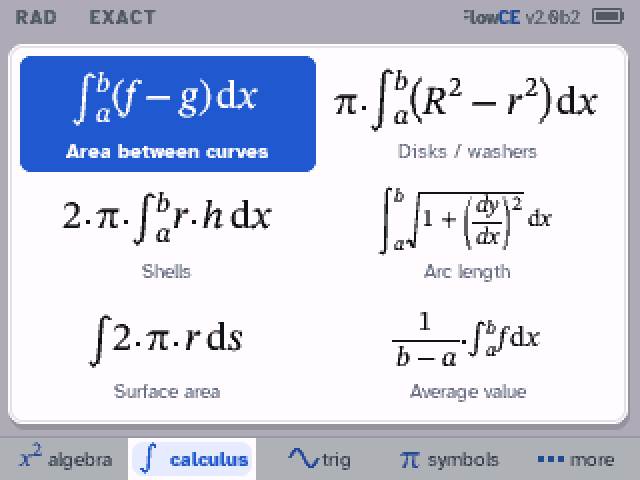
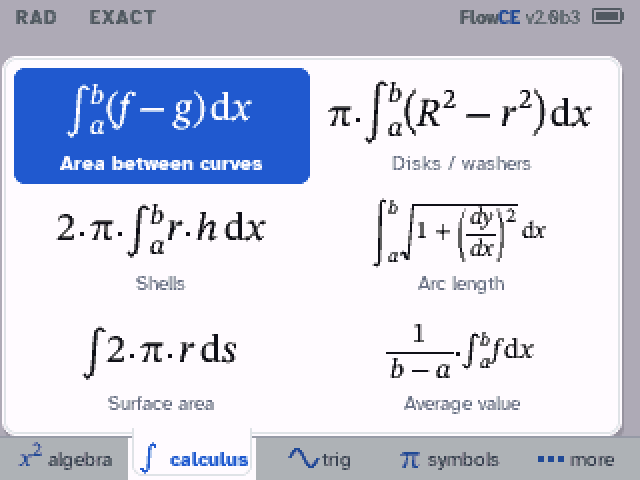
README: Steps 2.0 beta 3 (DeltaCE's algebra steps, graph screen, statistics, probability), credits
The two versions' table (beta 3: steps for algebra too, the graph screen, statistics and
probability; programs stay in 1.9), "New in beta 3" with nine screenshots of the emulated
calculator (FlowCE's look, 2.0b3), the applications under "Since beta 2" (the 0 key), the new keys
(the row of next steps, F4 on the steps page and on an antiderivative, the graph screen's keys,
statistics, probability, practice), and the credits: FlowCE by Tommy Bell; DeltaCE, Gabriel's
fork, for the algebra steps, the graph screen, analyze, statistics, probability and practice.
The beta 3 download link points to the release v2.0-beta3 (not made yet).

Changed region(s): [[0.0, 0.0938, 1.0, 0.9375], [0.875, 0.0312, 0.9062, 0.0625], [0.7188, 0.0312, 0.75, 0.0625]]

diff --git a/README.md b/README.md
@@ -29,11 +29,13 @@ pick a version, click Install, and follow the short calculator prompts.
 
 | | **FlowCE** | **FlowCE Steps** (beta) |
 |---|---|---|
-| Version | 1.9, stable | 2.0 beta 2 |
-| Step-by-step solutions | | derivatives, integrals, limits, sums, Taylor series |
+| Version | 1.9, stable | 2.0 beta 3 |
+| Step-by-step solutions | | calculus (derivatives, integrals, limits, sums, Taylor series) and algebra (equations, factoring, systems, inequalities) |
+| Graphs | classic graph, trace, table | a new graph screen: exact key points, pan and zoom, circles, polar, slope fields |
 | Applications menu | | area, volumes, arc length, surface area, average value |
-| Programs in Python syntax | yes | no |
-| Download | [`FlowCE.b84`](https://github.com/tommyb3ll/FlowCE/releases/latest/download/FlowCE.b84) | [`FlowCE-steps.b84`](https://github.com/tommyb3ll/FlowCE/releases/download/v2.0-beta2/FlowCE-steps.b84) |
+| Statistics and probability | | data, regressions, distributions, tests |
+| Programs (Python syntax, editor) | yes | no |
+| Download | [`FlowCE.b84`](https://github.com/tommyb3ll/FlowCE/releases/latest/download/FlowCE.b84) | [`FlowCE-steps.b84`](https://github.com/tommyb3ll/FlowCE/releases/download/v2.0-beta3/FlowCE-steps.b84) |
 
 Both have the shared features below. Install one version at a time.
 
@@ -45,10 +47,25 @@ does and the rule it uses (integration by parts, the chain rule, L'Hôpital's ru
 fractions, the ratio test...); a part worked out on the side, like the integral left after
 integrating by parts, gets its own steps. `▲` and `▼` move from step to step.
 
-**New in beta 2:** open **Calculus → Applications** for area between curves, volumes by
-washers or shells, arc length, surface area and average value, with labeled input boxes and
-worked steps. Beta 2 also improves large-power integrals, absolute-value problems and geometric
-series. [Release notes](https://github.com/tommyb3ll/FlowCE/releases/tag/v2.0-beta2).
+**New in beta 3:** steps for algebra (linear and quadratic equations, factoring, rational and
+radical equations, systems, exponential, log and trig equations, inequalities, absolute values,
+polynomial division), a new graph screen, `analyze(f)`, statistics, probability and practice
+problems, a row of next steps under each answer, and `y'` in the symbols menu. These come from
+[DeltaCE](https://github.com/bupfff/DeltaCE), a fork of FlowCE by Gabriel, merged back into
+FlowCE. [Release notes](https://github.com/tommyb3ll/FlowCE/releases/tag/v2.0-beta3).
+
+| | | |
+|:-:|:-:|:-:|
+| ![Steps for a quadratic equation: the quadratic formula](docs/screenshots/steps_quadratic.png) | ![Steps for a system of equations: elimination](docs/screenshots/steps_system.png) | ![Steps for an inequality: a number tested in each interval](docs/screenshots/steps_ineq.png) |
+| a quadratic, by the formula | a system, by elimination | an inequality |
+| ![The graph screen: key points of x³ − 3x](docs/screenshots/graph_points.png) | ![The row of actions under an answer](docs/screenshots/action_row.png) | ![analyze: domain, intercepts, asymptotes](docs/screenshots/analyze.png) |
+| the graph screen, key points | `▶`: what to do next | `analyze(f)` |
+| ![An ellipse and a line](docs/screenshots/graph_conic.png) | ![A line fitted to data](docs/screenshots/stats_fit.png) | ![A normal distribution, a tail shaded](docs/screenshots/prob_normal.png) |
+| equations in x and y | statistics: a fitted line | probability |
+
+**Since beta 2:** **Calculus → Applications** (the `0` key on the calculus menu) for area between
+curves, volumes by washers or shells, arc length, surface area and average value, with labeled
+input boxes and worked steps.
 
 | ![Applications of calculus menu](docs/screenshots/menu_apps.png) | ![Area between curves, with steps](docs/screenshots/apps_area_steps.png) |
 |:-:|:-:|
@@ -159,17 +176,20 @@ rules (some tests, like the ACT, don't allow one).
 |---|---|
 | F1 to F5 | menus: algebra, calculus, trig, symbols, more (with `2nd` or `alpha`: more menus) |
 | F1 / F2 action after typing | applies to what you typed: `x^2−1` then Factor is `factor(x^2−1)` (on an empty line: the last answer) |
-| `enter` after a calculus answer | its steps (FlowCE Steps) |
+| `enter` after an answer | its steps (FlowCE Steps: calculus, equations, inequalities, factoring, divisions) |
+| `▶` after an answer | the row of next steps (FlowCE Steps): `◀` `▶` move, `enter` does it |
+| F4 on the steps page | another method, when there is one (FlowCE Steps: long or synthetic division) |
 | `math` | templates: fraction, root, integrals, derivative, limit, sum |
 | ▲ / ▼ | history / search every command |
-| F4 on an answer | its other forms |
+| F4 on an answer | its other forms (FlowCE Steps: on an antiderivative, its derivative as a check) |
 | `(-)` | a minus sign; `2nd (-)` is the last answer (Ans) |
 | `+` `−` `×` `÷` `^` `x²` first | works on the last answer, as on a TI (`× 2` is Ans·2) |
 | `2nd enter` | the last input again (ENTRY); press again for the one before |
 | `sto→` | stores a value: `5 → b` |
 | `clear` | erases the line; on an empty line, the answer |
 | ON or `clear` while computing | stops the calculation |
-| *more* → Graph | graphs the line or the answer; in the graph: F2 window and curve study, `2nd graph` table |
+| *more* → Graph | graphs the line or the answer; in the graph: F2 window and curve study, `2nd graph` table (FlowCE Steps: arrows pan, `+` `−` zoom, F1 trace, F3 key points and tools, F4 table) |
+| *more* → Statistics, Probability, Practice | FlowCE Steps: data and fitted curves, distributions and tests, practice problems |
 | `mode` | settings (*Simplify answers* on or off), shortcuts, about |
 | `2nd quit` | quit (your session is kept) |
 
@@ -189,11 +209,14 @@ The app must fit in 43 flash pages (at most 2,818,045 bytes); the build prints t
 
 ## Credits and license
 
-FlowCE is a fork of [KhiCAS](https://www-fourier.univ-grenoble-alpes.fr/~parisse/) by Bernard
-Parisse.
+FlowCE, by Tommy Bell, is a fork of [KhiCAS](https://www-fourier.univ-grenoble-alpes.fr/~parisse/)
+by Bernard Parisse.
 
 - **Math engine:** Giac, by Bernard Parisse and contributors (Institut Fourier, Université
   Grenoble Alpes).
+- **Algebra steps, the graph screen, analyze, statistics, probability and practice** (FlowCE
+  Steps, from 2.0 beta 3): from [DeltaCE](https://github.com/bupfff/DeltaCE), a fork of FlowCE by
+  Gabriel, merged back into FlowCE with its history.
 - **Console interface:** adapted from Eigenmath for the Casio Prizm by G. Maia, Mike Smith,
   Nemhardy and LePhenixNoir.
 - **Thanks** to Adrien Bertrand, Xavier Andreani and the TI-83/84 development community,
